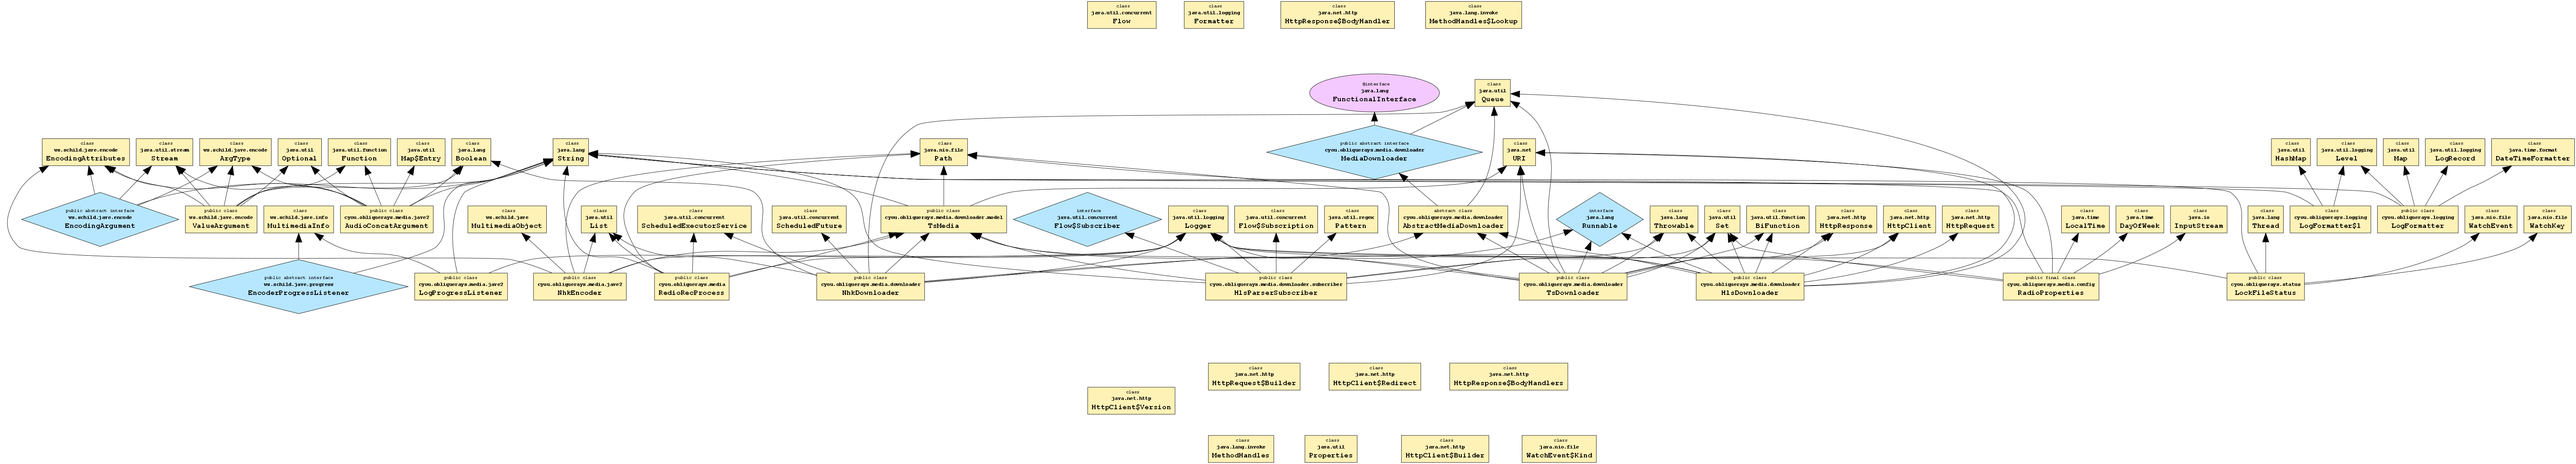
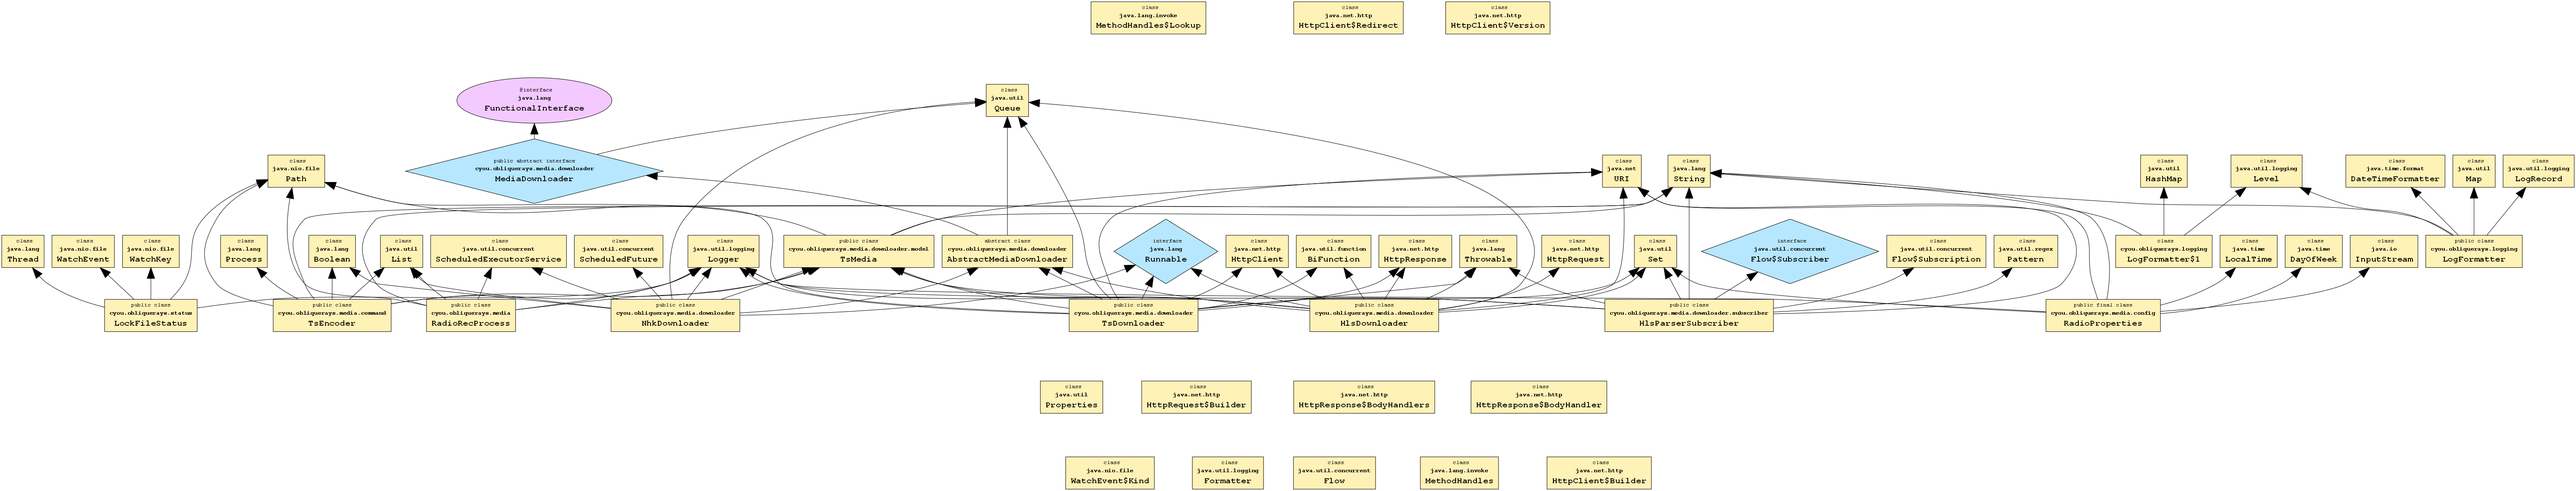
コンテナ更新
Add: カスタムJRE対応
Change: dockerマルチビルド適用/jib廃止
Update: skaffold更新
Fix: エンコード前のTSファイルsort条件見直し
Update: ダイアグラム/パッケージ図/モジュールグラフ更新

diff --git a/src/main/java/cyou/obliquerays/media/command/TsEncoder.java b/src/main/java/cyou/obliquerays/media/command/TsEncoder.java
@@ -71,7 +71,25 @@ public class TsEncoder {
 		attrs.add("2");
 		this.tsMedias.stream()
 			.map(TsMedia::getTsPath)
-			.sorted((p1, p2) -> p1.compareTo(p2))
+			.sorted((p1, p2) -> {
+				String[] arr1 = p1.getFileName().toString().split("-");
+				String[] arr2 = p2.getFileName().toString().split("-");
+				int index = arr1.length < arr2.length ? arr1.length : arr2.length;
+				for (int ret = 0, i = 0; i < index; i++) {
+					if (arr1[i].length() == arr2[i].length()) {
+						ret = arr1[i].compareTo(arr2[i]);
+					} else {
+						int padding = arr1[i].length() < arr2[i].length() ? arr2[i].length() : arr1[i].length();
+						String str1 = arr1[i].length() < padding ?  String.format("%" + padding + "s", arr1[i]).replace(" ", "0") : arr1[i];
+						String str2 = arr2[i].length() < padding ?  String.format("%" + padding + "s", arr2[i]).replace(" ", "0") : arr2[i];
+						ret = str1.compareTo(str2);
+					}
+					if (ret != 0) {
+						return ret;
+					}
+				}
+				return 0;
+			})
 			.forEach(f -> {
 				attrs.add("-i");
 				attrs.add(f.toAbsolutePath().normalize().toString());
@@ -102,9 +120,9 @@ public class TsEncoder {
 	/**
 	 * NHKラジオをMP3へエンコード
 	 * @return エンコード結果のMP3ファイル
-	 * @throws IOException
-	 * @throws InterruptedException
-	 * @throws ExecutionException
+	 * @throws IOException FFMPEG起動失敗
+	 * @throws InterruptedException FFMPEG実行中にスレッド割り込み
+	 * @throws ExecutionException FFMPEG実行失敗
 	 */
 	public Path record() throws IOException, InterruptedException, ExecutionException {
 

diff --git a/src/test/java/cyou/obliquerays/media/command/TsEncoderTest.java b/src/test/java/cyou/obliquerays/media/command/TsEncoderTest.java
@@ -69,7 +69,8 @@ class TsEncoderTest {
 	 * {@link cyou.obliquerays.media.command.TsEncoder#TsEncoder()} のためのテスト・メソッド。
 	 * @throws IOException
 	 * @throws ExecutionException
-	 * @throws InterruptedException */
+	 * @throws InterruptedException
+	 */
 	@Test
 	void testRecord01() throws IOException, InterruptedException, ExecutionException {
 
@@ -79,7 +80,7 @@ class TsEncoderTest {
 	        }
 	    };
 	    List<TsMedia> media = new ArrayList<>();
-	    try (DirectoryStream<Path> dirStream = Files.newDirectoryStream(Path.of("20210404"), filter)) {
+	    try (DirectoryStream<Path> dirStream = Files.newDirectoryStream(Path.of("20210405"), filter)) {
 	    	dirStream.forEach(path -> {
 	    		TsMedia ts = new TsMedia(URI.create("https://nhkradioakr2-i.akamaihd.net/hls/live/511929/1-r2/1-r2-01.m3u8"));
 	    		ts.setTsPath(path.toAbsolutePath().normalize());

diff --git a/src/main/java/cyou/obliquerays/media/RadioRecProcess.java b/src/main/java/cyou/obliquerays/media/RadioRecProcess.java
@@ -81,9 +81,9 @@ public class RadioRecProcess {
 	 * セグメントファイルをMP3ファイルへエンコード
 	 * @param _media ダウンロード済みのHLSセグメントファイル
 	 * @return エンコード後のMP3ファイル
-	 * @throws ExecutionException
-	 * @throws InterruptedException
-	 * @throws IOException
+	 * @throws ExecutionException FFMPEG実行失敗
+	 * @throws InterruptedException FFMPEG実行中にスレッド割り込み
+	 * @throws IOException FFMPEG起動失敗
 	 */
 	private Path encode(List<TsMedia> _media) throws IOException, InterruptedException, ExecutionException {
 		TsEncoder recorder = new TsEncoder(_media);

diff --git a/src/main/java/module-info.java b/src/main/java/module-info.java
@@ -2,13 +2,8 @@
  * NHK第2放送を録音
  */
 module radio.recorder {
-	exports cyou.obliquerays.logging;
 	exports cyou.obliquerays.media;
-	exports cyou.obliquerays.media.downloader;
-	exports cyou.obliquerays.media.downloader.model;
 
-	requires transitive java.logging;
+	requires java.logging;
 	requires java.net.http;
-	requires jdk.httpserver;
-	requires java.xml;
 }

diff --git a/README.md b/README.md
@@ -2,4 +2,7 @@
 K8s用インターネットラジオ録音
 -  一応動きましたが、まだプロトタイプです。
     -  ロジック
-        - 見直したいところ沢山
+        - 時間の管理を再考する
+        - 複数スケジュール管理を検討する
+    -  CDで動確する
+    -  minikubeで動確する
